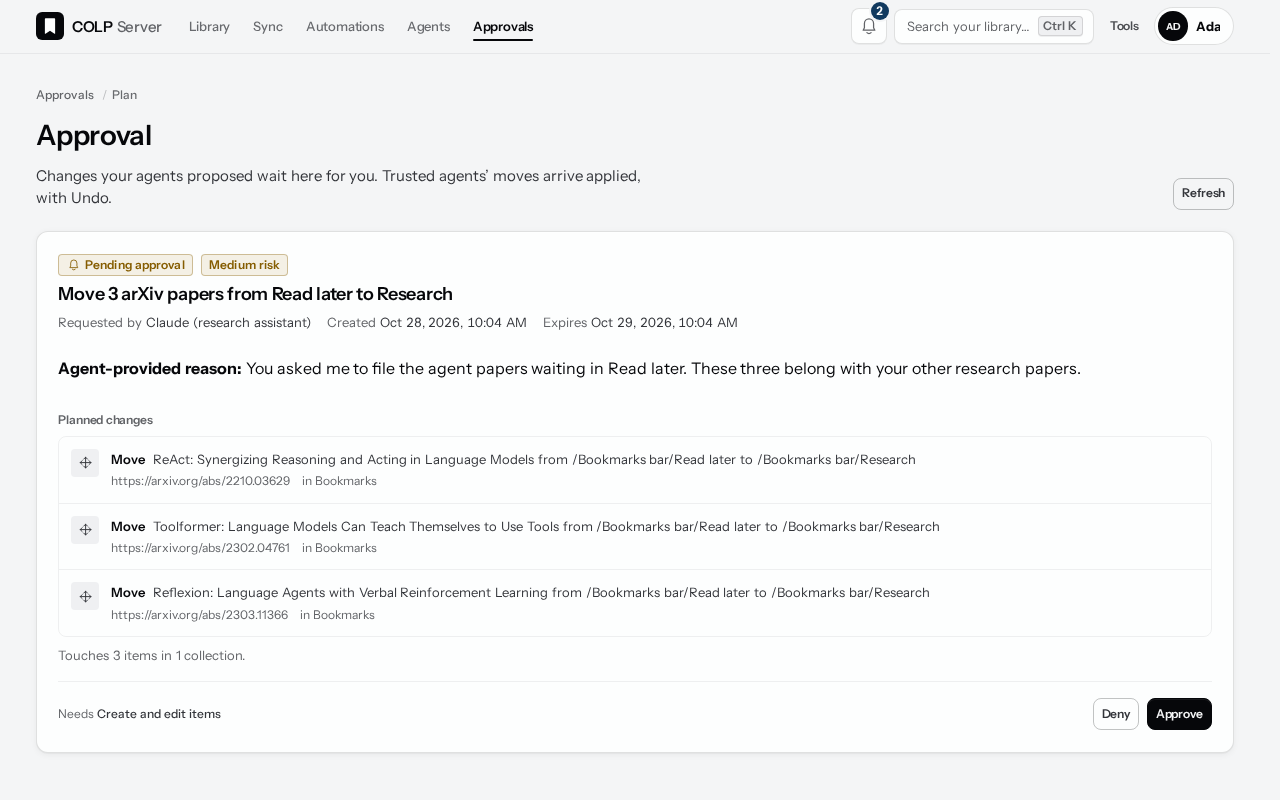
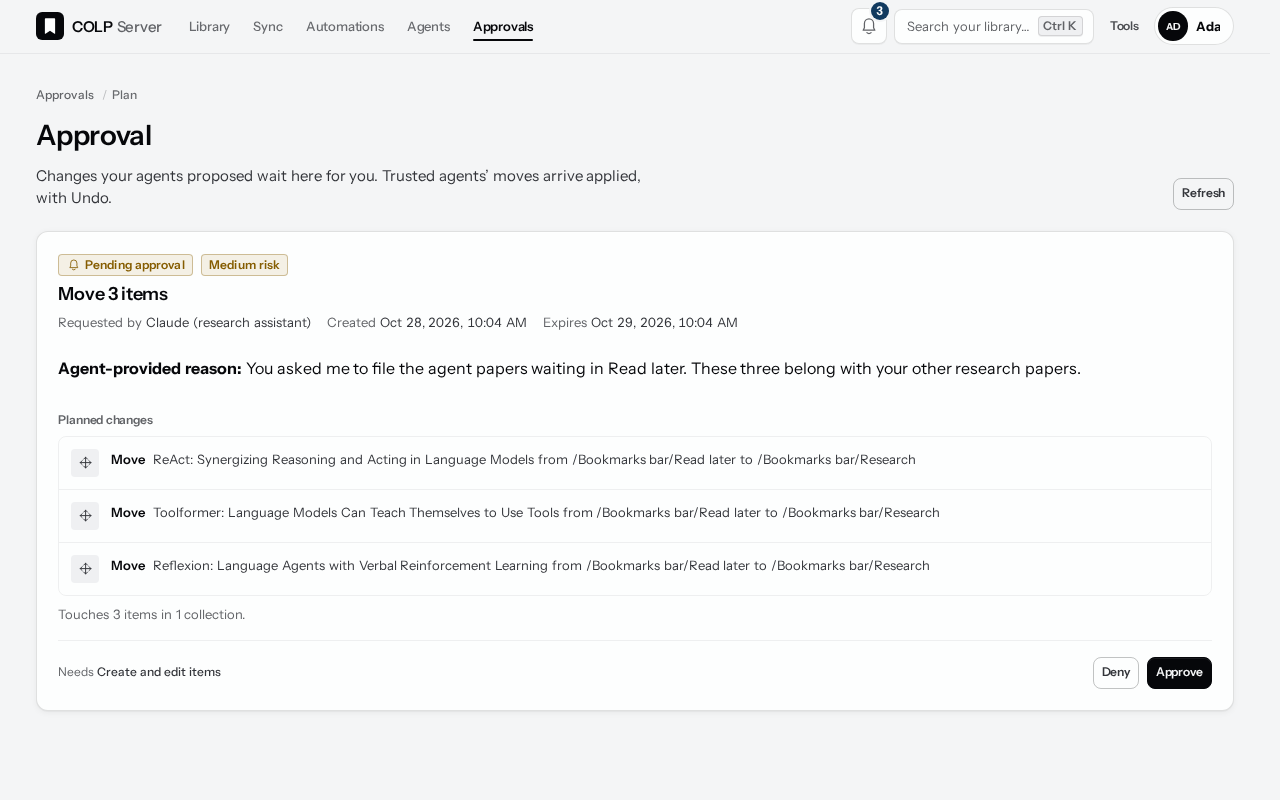
docs: re-take the README screenshots after the approval and inbox fixes
The capture fixtures now carry what the server sends:
- the plan's counted headline, "Move 3 items";
- no node summary for a move;
- the pending plan's approval_requested item in the Activity inbox,
  which raises the bell count to 3.

The re-taken images show:
- approval rows without "in Bookmarks";
- the waiting plan at the top of the inbox;
- hosts without www.

The extension popup changed by 4 anti-aliased pixels at the end of its
sync progress line and is left as it was.

diff --git a/packages/web/e2e/helpers/readme-fixtures.ts b/packages/web/e2e/helpers/readme-fixtures.ts
@@ -197,15 +197,17 @@ const approval: WriteApprovalView = {
   status: 'pending',
   risk: 'medium',
   requiresApproval: true,
-  summary: 'Move 3 arXiv papers from Read later to Research',
+  // What the server writes for several changes; each row carries its own sentence.
+  summary: 'Move 3 items',
   impact: { collections: 1, nodes: 3, annotations: 0, attachments: 0, relations: 0, privateFieldsExcluded: [] },
   requiredScopes: ['nodes:write'],
   target: { kind: 'collection', collectionId: LIBRARY_ID, nodeId: null },
-  // The server's planner writes `move <title> from <path> to <path>` from stored paths, never agent text.
+  // The server's planner writes `move <title> from <path> to <path>` from stored paths, never agent text,
+  // and sends no node summary for a move.
   operations: plannedPapers.map((paper) => ({
     type: 'move_node', collectionId: LIBRARY_ID, nodeId: paper.id, visibility: null,
     description: `move ${paper.title} from /Bookmarks bar/Read later to /Bookmarks bar/Research`,
-    nodeSummary: { kind: 'bookmark', title: paper.title, url: paper.url, visibility: 'inherit' },
+    nodeSummary: null,
   })),
   createdAt: '2026-10-28T10:04:00.000Z',
   expiresAt: '2026-10-29T10:04:00.000Z',
@@ -302,7 +304,7 @@ const activityAgent = { ...agent, kind: 'oauth_client' as const }
 function activity(id: string, kind: ActivityItem['kind'], at: string, unread: boolean, patch: Partial<ActivityItem>): ActivityItem {
   return {
     id, kind, state: unread ? 'unread' : 'read', revision: '1', occurredAt: at, updatedAt: at,
-    readAt: unread ? null : at, count: 0, agent: null, collection: library, folders: [], items: [], run: null, ...patch,
+    readAt: unread ? null : at, count: 0, agent: null, collection: library, folders: [], items: [], run: null, plan: null, ...patch,
   }
 }
 
@@ -311,6 +313,8 @@ function ruleRun(runId: string, ruleId: string, status: string) {
 }
 
 const activityItems: ActivityItem[] = [
+  // The approval above, waiting: the server lists a pending plan until it is decided.
+  activity('act-7', 'approval_requested', approval.createdAt, true, { agent: activityAgent, plan: { id: PLAN_ID, summary: approval.summary } }),
   activity('act-6', 'agent_bookmarks_added', '2026-10-28T09:52:00.000Z', true, {
     count: 3, agent: activityAgent,
     folders: [{ nodeId: RESEARCH_ID, title: 'Research', count: 3 }],

diff --git a/packages/web/e2e/readme.capture.ts b/packages/web/e2e/readme.capture.ts
@@ -82,8 +82,9 @@ test('web-automations: account rules and their recent runs', async ({ page }) =>
 test('web-activity: the agent activity inbox', async ({ page }) => {
   const read = page.waitForRequest((request) => request.method() === 'POST' && request.url().endsWith('/api/v1/me/activity/read'))
   await page.goto('/activity')
-  await expect(page.locator('[data-activity-id]')).toHaveCount(5)
+  await expect(page.locator('[data-activity-id]')).toHaveCount(6)
   await read
+  await expect(page.getByRole('link', { name: 'Claude (research assistant) wants your approval' })).toBeVisible()
   await expect(page.getByRole('link', { name: 'Claude (research assistant) added 3 bookmarks to Research' })).toBeVisible()
   await capture(page, 'web-activity.en.png')
 })

diff --git a/packages/server/README.md b/packages/server/README.md
@@ -53,7 +53,7 @@ Rules that summarize or tag need an AI. Connect one in the rule editor, or let a
 **Agents** lists connected agents, their approval policy and API keys, with setup commands for Claude Code, Codex and other MCP clients ([install guide](../../deploy/INSTALL.md#6-connect-an-agent)). Each agent starts on **Manual**: adding bookmarks and editing titles apply at once, while moves and deletions become a plan on **Approvals**. A **Trusted** agent's moves apply directly and can be undone there. Deleting, emptying the trash and purging always wait for you.
 
 <p align="center">
-  <img src="../../docs/assets/screens/web-activity.en.png" alt="The Activity inbox: bookmarks an agent added and rule runs that finished, grouped by day" width="100%">
+  <img src="../../docs/assets/screens/web-activity.en.png" alt="The Activity inbox: an agent's plan waiting for approval, bookmarks an agent added and rule runs that finished, grouped by day" width="100%">
   <br><sub>The Activity inbox.</sub>
 </p>
 
